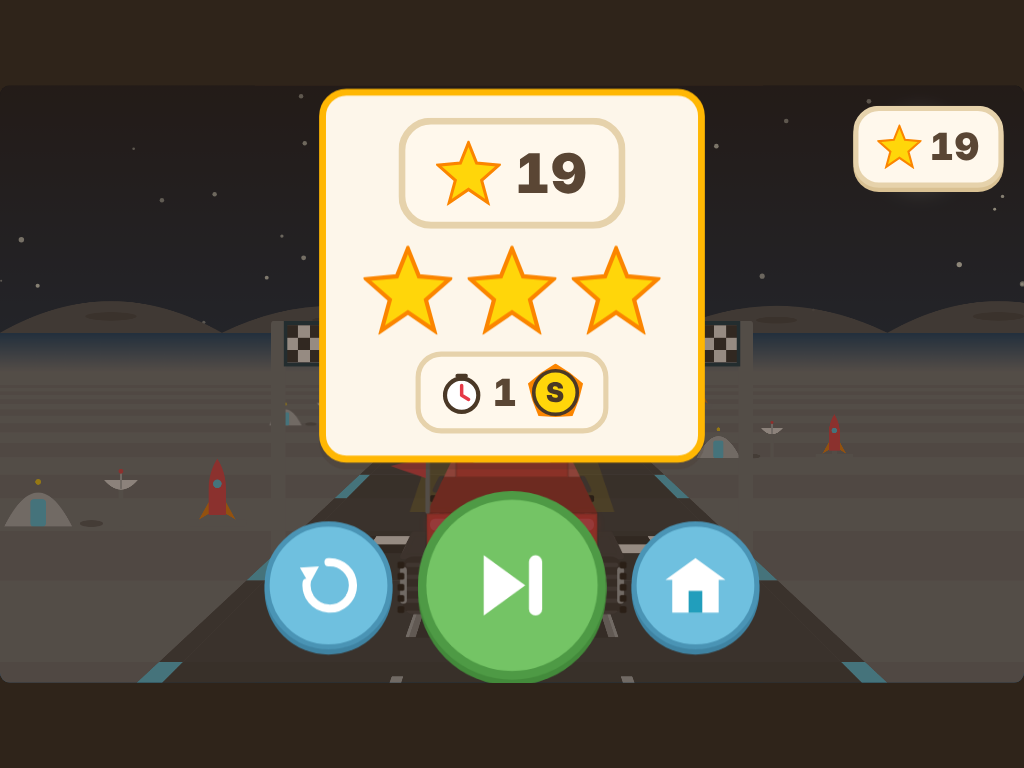
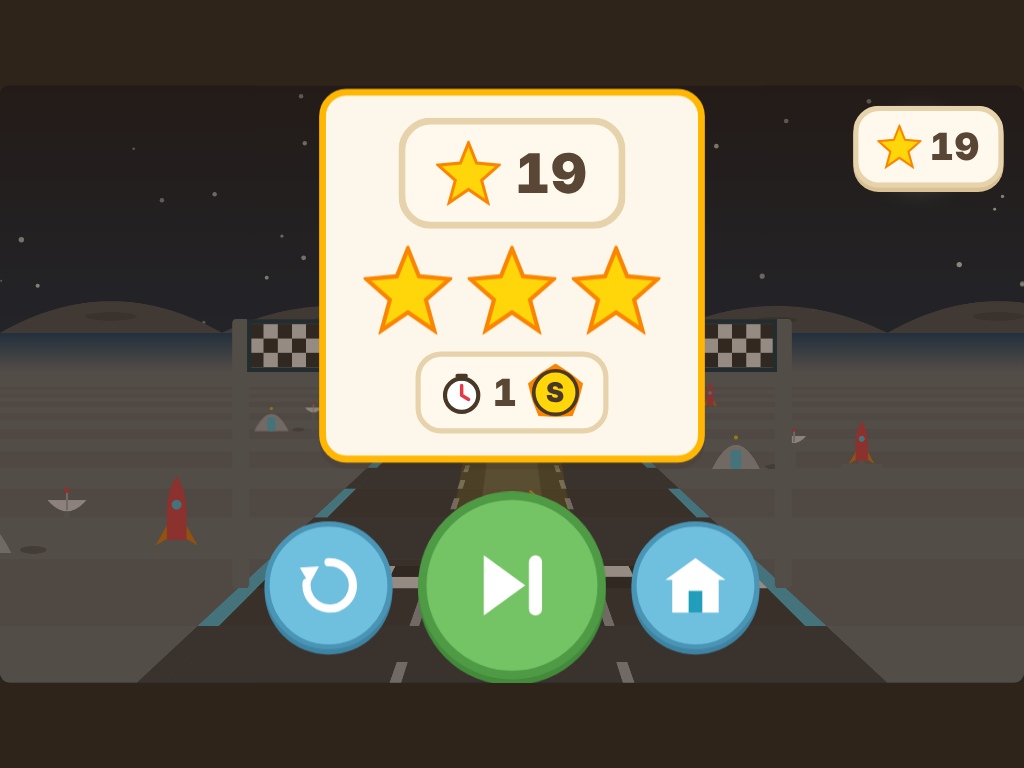
feat(T10.6): chase-cam cars at half size
CAR_K scales the build in car space (perspective stays correct); tire detail,
hitbox, shadow footprint, beams, dust and gag anchors follow. Collision point
moves to the new mid-hood (CAR_HIT_Z 100). Raw tailgate art (monster stripe,
police star, dragon scales) now goes through the face projection.

Claude-Session: https://claude.ai/code/session_016ck1aPGLVyXfjAcF2qTzon

diff --git a/index.html b/index.html
@@ -3384,8 +3384,8 @@ const LANE_W = 240;               /* lane spacing at the car's depth */
 const ROAD_HALF = LANE_W * 1.5;
 const CAM_FOLLOW = 0.6;           /* camera slides most of the way with lane changes */
 const DRAW_FAR = 3400, DRAW_NEAR = -260, FADE = 500;
-const CAR_TOP = 430;              /* roughly the roofline of the chase-cam car on stage */
-const CAR_HIT_Z = 200;            /* collisions land this far up the car (mid-hood), not at the bumper */
+const CAR_TOP = 540;              /* roughly the roofline of the chase-cam car on stage */
+const CAR_HIT_Z = 100;            /* collisions land this far up the car (mid-hood), not at the bumper */
 const LOW_STAR_H = 85, HIGH_STAR_H = 240;
 let camX = 0;
 const laneX = l => (l - 1) * LANE_W;
@@ -3407,8 +3407,11 @@ function mulberry32(a) {
    SVG origin = the rear bumper's ground point (stage 600,650); units = stage px at the car.
    Painter's order: far z0 first, then low y0 first. A part resting on another shares its z0
    (split the one underneath otherwise); `late` parts (rails, stacks, horns) draw last. */
-const VS = z => CAM_D / (z + CAM_D);
-const vp = (x, y, z) => { const s = VS(z); return [x * s, (CAM_H - y) * s - CAM_H]; };
+/* CAR_K shrinks the whole build in car space (so perspective stays honest): the art is
+   authored at full size, the car on the road is half that */
+const CAR_K = 0.5;
+const VS = z => CAM_D / (z * CAR_K + CAM_D) * CAR_K;   /* px per car-space unit at depth z */
+const vp = (x, y, z) => { const s = CAM_D / (z * CAR_K + CAM_D); return [x * CAR_K * s, (CAM_H - y * CAR_K) * s - CAM_H]; };
 const fx = n => n.toFixed(1);
 const ptStr = a => a.map(p => fx(p[0]) + "," + fx(p[1])).join(" ");
 const vpoly = (pts, fill, extra = "") => `<polygon points="${ptStr(pts)}" fill="${fill}" stroke-linejoin="round" ${extra}/>`;
@@ -3500,8 +3503,8 @@ const CAR3D = {
   monster: { len: 400, half: 100, axles: [80, 320],
     roof: [0, 198, 215], mount: [-100, 118, 6], deco: [0, 90, 0], win: [0, 165, 130], smoke: [86, 206, 256],
     parts: () => [
-      cbox(100, 62, 118, 0, 130, VP, { topDark: true, deco: F => tail(-96, 98)(F) + tail(74, 98)(F) + F(-104, 62, 104, 76, VD) +
-        `<path d="M-90 -86 Q-70 -98 -54 -86 Q-38 -74 -22 -86 Q-6 -98 10 -86 Q26 -74 42 -86 Q58 -98 74 -86 Q84 -80 90 -86" stroke="#ffd60a" stroke-width="7" fill="none" stroke-linecap="round"/>` }),
+      cbox(100, 62, 118, 0, 130, VP, { topDark: true, deco: (F, C, G) => tail(-96, 98)(F) + tail(74, 98)(F) + F(-104, 62, 104, 76, VD) +
+        G(`<path d="M-90 -86 Q-70 -98 -54 -86 Q-38 -74 -22 -86 Q-6 -98 10 -86 Q26 -74 42 -86 Q58 -98 74 -86 Q84 -80 90 -86" stroke="#ffd60a" stroke-width="7" fill="none" stroke-linecap="round"/>`) }),
       cbox(100, 62, 118, 130, 400, VP),
       cbox(82, 118, 198, 130, 300, VP, { deco: F => F(-62, 140, 62, 186, VG) }),
       box(80, 92, 118, 206, 250, 262, VM, { late: true })
@@ -3509,9 +3512,9 @@ const CAR3D = {
   police: { len: 440, half: 100, axles: [80, 360],
     roof: [-52, 152, 175], mount: [-100, 92, 6], deco: [0, 58, 0], win: [0, 125, 140], smoke: [-60, 42, 0],
     parts: () => [
-      cbox(100, 36, 92, 0, 140, VP, { deco: F => F(-100, 70, 100, 82, "#f8f9fa") + tail(-94, 84, 34, 8)(F) + tail(60, 84, 34, 8)(F) +
+      cbox(100, 36, 92, 0, 140, VP, { deco: (F, C, G) => F(-100, 70, 100, 82, "#f8f9fa") + tail(-94, 84, 34, 8)(F) + tail(60, 84, 34, 8)(F) +
         F(-104, 30, 104, 44, VD) + F(-22, 48, 22, 62, "#fff") +
-        `<path d="M0 -9 L2.2 -3.1 L8.6 -2.8 L3.6 1.2 L5.3 7.3 L0 3.8 L-5.3 7.3 L-3.6 1.2 L-8.6 -2.8 L-2.2 -3.1 Z" fill="#1d3557" transform="translate(0,-76)"/>` }),
+        G(`<path d="M0 -9 L2.2 -3.1 L8.6 -2.8 L3.6 1.2 L5.3 7.3 L0 3.8 L-5.3 7.3 L-3.6 1.2 L-8.6 -2.8 L-2.2 -3.1 Z" fill="#1d3557" transform="translate(0,-76)"/>`) }),
       cbox(100, 36, 92, 140, 320, VP),
       cbox(86, 92, 152, 140, 320, VP, { deco: F => F(-70, 100, 70, 144, VG) }),
       cbox(100, 36, 88, 320, 440, VP),
@@ -3585,7 +3588,7 @@ const CAR3D = {
       box(-28, 28, 36, 74, -116, -90, VP, { shade: .2 }),
       box(-12, 12, 46, 70, -90, 0, VP, { y1f: 74 }),
       dragonWing(1), dragonWing(-1),
-      cbox(96, 44, 150, 0, 300, VP, { deco: F => `<path d="M-80 -110 Q-70 -120 -60 -110 Q-50 -120 -40 -110 M40 -110 Q50 -120 60 -110 Q70 -120 80 -110" stroke="#00000026" stroke-width="5" fill="none"/>` + F(-100, 34, 100, 48, VD) }),
+      cbox(96, 44, 150, 0, 300, VP, { deco: (F, C, G) => G(`<path d="M-80 -110 Q-70 -120 -60 -110 Q-50 -120 -40 -110 M40 -110 Q50 -120 60 -110 Q70 -120 80 -110" stroke="#00000026" stroke-width="5" fill="none"/>`) + F(-100, 34, 100, 48, VD) }),
       ...[20, 80, 140, 200, 260].map(z => box(-8, 8, 150, 178, z, z + 30, VP, { late: true, shade: .25 })),
       cbox(54, 130, 232, 300, 390, VP),
       box(-50, -34, 232, 272, 310, 330, "#ffd60a", { late: true }), box(34, 50, 232, 272, 310, 330, "#ffd60a", { late: true })
@@ -3620,6 +3623,8 @@ function partSVG(p, L) {
     return `<rect x="${fx(Math.min(a[0], b[0]))}" y="${fx(Math.min(a[1], b[1]))}" width="${fx(Math.abs(b[0] - a[0]))}" height="${fx(Math.abs(b[1] - a[1]))}" rx="${fx(Math.min(6, Math.abs(b[1] - a[1]) / 2))}" fill="${fill}" ${extra}/>`;
   };
   const C = (x, y, r, fill, extra = "") => { const c = vp(x, y + L, p.z0); return `<circle cx="${fx(c[0])}" cy="${fx(c[1])}" r="${fx(r * VS(p.z0))}" fill="${fill}" ${extra}/>`; };
+  /* raw art authored in back-face coords (x right, -y up from the ground) */
+  const G = inner => { const s0 = CAM_D / (p.z0 * CAR_K + CAM_D); return `<g transform="translate(0,${fx((CAM_H - L * CAR_K) * s0 - CAM_H)}) scale(${VS(p.z0).toFixed(4)})">${inner}</g>`; };
   if (p.k === "box") {
     const y0 = p.y0 + L, y1 = p.y1 + L, yf = p.y1f + L;
     let out = "";
@@ -3634,7 +3639,7 @@ function partSVG(p, L) {
     out += vpoly(bk, p.fill, 'stroke="#00000026" stroke-width="3"');
     if (p.shade) out += vpoly(bk, "#000", `opacity="${p.shade}"`);
     if (p.lite) out += vpoly(bk, "#fff", `opacity="${p.lite}"`);
-    return out + (p.deco ? p.deco(F, C) : "");
+    return out + (p.deco ? p.deco(F, C, G) : "");
   }
   if (p.k === "cyl") {
     const back = ringZ(0, p.yb + L, p.rb, p.z0).map(q => vp(...q));
@@ -3673,17 +3678,17 @@ function tire3D(t) {
   out += `<rect x="${fx(x)}" y="${fx(y)}" width="${fx(tw)}" height="${fx(th)}" rx="${fx(rr)}" fill="#2b2d31"/>`;
   if (t.rear) {
     let tread = "";
-    for (let ty = y - 14; ty < y + th + 14; ty += 14) tread += `<rect x="${fx(x + 4)}" y="${fx(ty)}" width="${fx(tw - 8)}" height="5" rx="2" fill="#41444a"/>`;
+    for (let ty = y - 7; ty < y + th + 7; ty += 7) tread += `<rect x="${fx(x + 2)}" y="${fx(ty)}" width="${fx(tw - 4)}" height="2.5" rx="1" fill="#41444a"/>`;
     out += `<clipPath id="${id}"><rect x="${fx(x)}" y="${fx(y)}" width="${fx(tw)}" height="${fx(th)}" rx="${fx(rr)}"/></clipPath><g clip-path="url(#${id})"><g class="treadRoll">${tread}</g></g>`;
   }
   const side = t.cx < 0 ? -1 : 1, hub = WHEELS[t.type].hub, type = t.type;
-  const outerX = side < 0 ? x - 3 : x + tw - 5;
-  out += `<rect x="${fx(outerX)}" y="${fx(y + th * 0.18)}" width="8" height="${fx(th * 0.64)}" rx="4" fill="${hub}"/>`;
-  if (type === "monster" || type === "tank") for (let ty = y + 6; ty < y + th - 4; ty += 13) out += `<rect x="${fx(side < 0 ? x - 6 : x + tw - 2)}" y="${fx(ty)}" width="8" height="8" rx="2" fill="#111"/>`;
+  const outerX = side < 0 ? x - 1.5 : x + tw - 2.5;
+  out += `<rect x="${fx(outerX)}" y="${fx(y + th * 0.18)}" width="4" height="${fx(th * 0.64)}" rx="2" fill="${hub}"/>`;
+  if (type === "monster" || type === "tank") for (let ty = y + 3; ty < y + th - 2; ty += 6.5) out += `<rect x="${fx(side < 0 ? x - 3 : x + tw - 1)}" y="${fx(ty)}" width="4" height="4" rx="1" fill="#111"/>`;
   if (type === "gold") out += `<rect x="${fx(outerX - 1)}" y="${fx(y + 4)}" width="9" height="${fx(th - 8)}" rx="4" fill="#ffd700"/>`;
   if (type === "flower") for (let k = 0; k < 3; k++) out += `<circle cx="${fx(outerX + 3)}" cy="${fx(y + th * (0.25 + k * 0.25))}" r="6" fill="#fff"/><circle cx="${fx(outerX + 3)}" cy="${fx(y + th * (0.25 + k * 0.25))}" r="2.5" fill="#ff70a6"/>`;
   if (type === "glow") out += `<rect x="${fx(x - 4)}" y="${fx(y - 4)}" width="${fx(tw + 8)}" height="${fx(th + 8)}" rx="${fx(rr + 4)}" fill="none" stroke="#b388ff" stroke-width="5" opacity=".55"/>`;
-  if (type === "star") out += `<path d="M0 -5.5 L1.7 -1.9 L5.6 -1.6 L2.7 1 L3.5 5 L0 2.9 L-3.5 5 L-2.7 1 L-5.6 -1.6 L-1.7 -1.9 Z" fill="#fff" transform="translate(${fx(x + tw / 2)},${fx(y + th / 2)}) scale(1.6)"/>`;
+  if (type === "star") out += `<path d="M0 -5.5 L1.7 -1.9 L5.6 -1.6 L2.7 1 L3.5 5 L0 2.9 L-3.5 5 L-2.7 1 L-5.6 -1.6 L-1.7 -1.9 Z" fill="#fff" transform="translate(${fx(x + tw / 2)},${fx(y + th / 2)}) scale(.8)"/>`;
   return out;
 }
 let carLen = 450, carHalf = 104;
@@ -3692,7 +3697,7 @@ function vehicleRearSVG(st) {
   const uid = ++svgUid;
   const r = WHEELS[st.wheels].r;
   const L = 12 + Math.max(0, r - 26) * 1.3;   /* ride height: big wheels jack the body up */
-  carLen = R.len; carHalf = R.half;
+  carLen = R.len * CAR_K; carHalf = R.half * CAR_K;
   let paint = st.color, defs = "";
   if (st.color === "rainbow") {
     defs = `<defs><linearGradient id="rg${uid}" gradientUnits="userSpaceOnUse" x1="-130" y1="0" x2="130" y2="0">
@@ -3750,7 +3755,7 @@ function vehicleRearSVG(st) {
     ${defs}
     ${body}
     ${over}
-    <rect class="hitbox" x="${-R.half - 30}" y="-260" width="${2 * R.half + 60}" height="270" fill="transparent"/>
+    <rect class="hitbox" x="${fx((-R.half - 40) * CAR_K)}" y="-150" width="${fx((2 * R.half + 80) * CAR_K)}" height="160" fill="transparent"/>
   </svg>`;
 }
 
@@ -4185,9 +4190,9 @@ function bankFreeRun() {
   if (freeMode && runStars > 0) { progress.wallet += runStars; save(); }
   freeMode = false;
 }
-const BEAMS_SVG = `<g class="beams"><path d="M-120 -150 L120 -150 L60 -330 L-60 -330 Z" fill="#ffd60a" opacity=".2"/>
-       <path d="M-70 -160 L70 -160 L36 -290 L-36 -290 Z" fill="#fff9c4" opacity=".18"/>
-       <circle cx="-60" cy="-170" r="9" fill="#fff9c4"/><circle cx="60" cy="-170" r="9" fill="#fff9c4"/></g>`;
+const BEAMS_SVG = `<g class="beams"><path d="M-80 -80 L80 -80 L42 -300 L-42 -300 Z" fill="#ffd60a" opacity=".2"/>
+       <path d="M-46 -86 L46 -86 L24 -250 L-24 -250 Z" fill="#fff9c4" opacity=".18"/>
+       <circle cx="-34" cy="-92" r="5" fill="#fff9c4"/><circle cx="34" cy="-92" r="5" fill="#fff9c4"/></g>`;
 function setHeadlights(on) {
   const svg = carWrap.querySelector("svg");
   if (!svg) return;
@@ -4632,8 +4637,8 @@ function spawnDust() {
     const side = i % 2 ? 1 : -1;
     const dEl = document.createElement("div");
     dEl.className = "dust";
-    dEl.style.left = (cx + side * (110 + Math.random() * 30) - 11) + "px";
-    dEl.style.top = (630 + Math.random() * 10) + "px";
+    dEl.style.left = (cx + side * (58 + Math.random() * 18) - 11) + "px";
+    dEl.style.top = (636 + Math.random() * 8) + "px";
     dEl.style.setProperty("--dx", side * 50 + "px");
     dEl.style.animationDelay = (i * 0.05) + "s";
     roadScene.appendChild(dEl);
@@ -4756,7 +4761,7 @@ function tick(now) {
   }
 
   /* wheels */
-  wheelAngle = (wheelAngle + v * dt * 0.09) % 14;   /* tread bands are 14 apart */
+  wheelAngle = (wheelAngle + v * dt * 0.045) % 7;   /* tread bands are 7 apart */
   wheelEls.forEach(w => w.style.transform = `translateY(${wheelAngle.toFixed(1)}px)`);
 
   /* body dynamics: lean back on the gas, dive on the brake, bank through lane changes */
